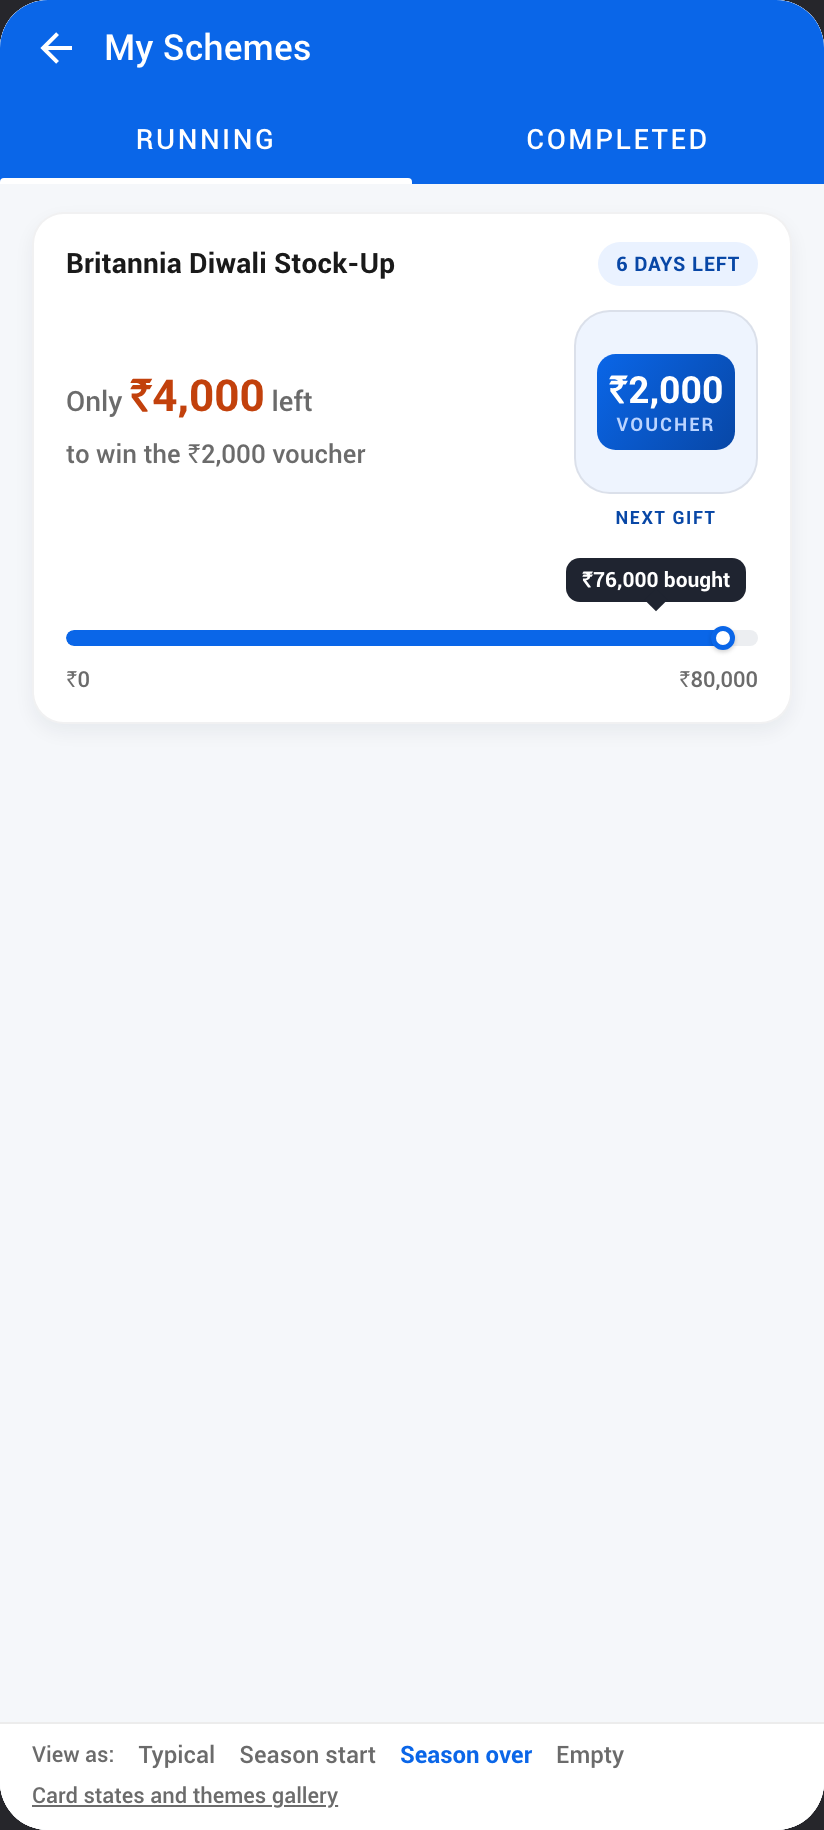
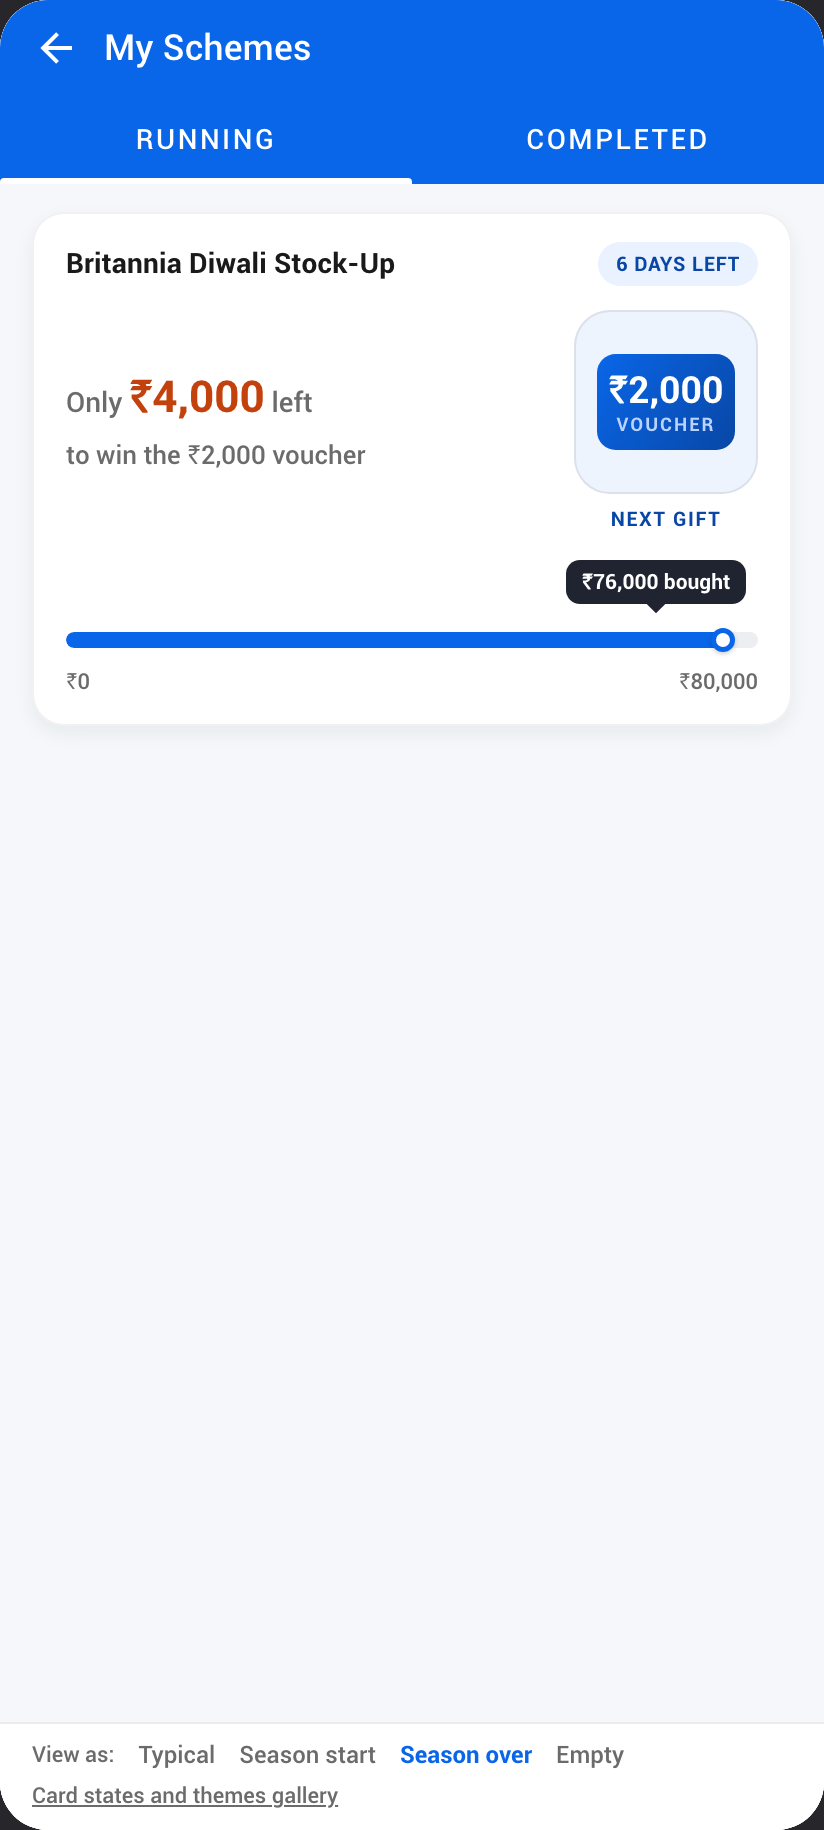
Forensic audit: measured fixes for axis, contrast, hit areas, rhythm, tokens
Measured with a DOM probe (bounding boxes, computed styles) and WCAG math,
then re-measured to zero:
- Title lockup off the page axis by 15px (motif+gap shifted the text): the
  motif now hangs outside the centered text; all five centered blocks read
  0.0px from one axis.
- Contrast (computed): default-theme h2 3.63:1 -> sub #E4EEFF; diwali deep
  accent 3.99:1 at 9px -> #9A5F0B at 10px (5.23:1); green 4.21:1 both ways
  -> #177E36 (5.15:1 text-on-white and white-on-fill).
- Back buttons measured 24x24 (hitSlop is unreliable on RN-web): padding
  10 / margin -10 gives a real 44x44 target on both screens.
- Stage closing rhythm 26/30/35 -> 26/30/31 (CTA marginTop 18 -> 14).
- Stepper 'now' halo was hardcoded Diwali cream; it now uses the theme tint
  (blue on default, marigold creams on festive).
- One scene speck sat under the diya and read as a stray mark; moved out of
  the header band.
Verified clean: track-to-label alignment 0.0px at both ends, knob-caret
concentric, chip heights uniform 22, no text overflow, no sub-9px type.

diff --git a/app/mega-diwali/index.js b/app/mega-diwali/index.js
@@ -57,7 +57,7 @@ const N = {
   line: '#ECECEC',
   paper: '#FFFFFF',
   bg: '#F7F7F7',
-  green: '#1E8E3E',
+  green: '#177E36',
 };
 const PHOTO_EDGE = 'rgba(0,0,0,0.08)';
 const TABULAR = { fontVariant: ['tabular-nums'] };
@@ -359,7 +359,13 @@ export default function SchemeDetail() {
         <View style={styles.stage}>
           <StageScene stage={st} festive={festive} focusY={missed ? 0.2 : 0.44} />
           <View style={styles.topBar}>
-            <Pressable onPress={() => router.back()} hitSlop={12} android_ripple={{ color: '#ffffff33', borderless: true }}>
+            {/* hitSlop is unreliable on RN-web; padding+negative margin gives a
+                real 44px target without moving the icon. */}
+            <Pressable
+              onPress={() => router.back()}
+              style={styles.backHit}
+              android_ripple={{ color: '#ffffff33', borderless: true }}
+            >
               <IconBack size={24} color="#fff" />
             </Pressable>
           </View>
@@ -367,8 +373,16 @@ export default function SchemeDetail() {
           {/* Long-press the title for the prototype's state/theme panel. */}
           <Pressable onLongPress={() => setDemoOpen((v) => !v)} delayLongPress={450}>
             <View style={styles.titleRow}>
-              {th.motif ? <GiftGlyph kind={th.motif} size={22} color={st.accent} strokeWidth={1.5} /> : null}
-              <Text style={[styles.h1, { color: st.ink }]} allowFontScaling={false}>{title}</Text>
+              {/* The motif hangs OUTSIDE the centered text, so the title shares
+                  one axis with every centered block below it. */}
+              <View>
+                {th.motif ? (
+                  <View style={styles.motifHang}>
+                    <GiftGlyph kind={th.motif} size={22} color={st.accent} strokeWidth={1.5} />
+                  </View>
+                ) : null}
+                <Text style={[styles.h1, { color: st.ink }]} allowFontScaling={false}>{title}</Text>
+              </View>
             </View>
             {h2}
           </Pressable>
@@ -553,7 +567,7 @@ export default function SchemeDetail() {
                         style={[
                           styles.stepDot,
                           stepStates[i] === 'done' && styles.stepDone,
-                          stepStates[i] === 'now' && [styles.stepNow, { borderColor: st.accentDeep }],
+                          stepStates[i] === 'now' && [styles.stepNow, { borderColor: st.accentDeep, backgroundColor: th.card.tint }],
                         ]}
                       >
                         <GiftGlyph
@@ -724,7 +738,9 @@ const styles = StyleSheet.create({
 
   stage: { paddingBottom: 28, overflow: 'hidden' },
   topBar: { flexDirection: 'row', alignItems: 'center', paddingHorizontal: 16, paddingTop: 14 },
-  titleRow: { flexDirection: 'row', alignItems: 'center', justifyContent: 'center', gap: 8, marginTop: 8 },
+  backHit: { padding: 10, margin: -10 },
+  titleRow: { flexDirection: 'row', justifyContent: 'center', marginTop: 8 },
+  motifHang: { position: 'absolute', right: '100%', marginRight: 8, top: 3 },
   h1: { fontFamily: F.bold, fontSize: 22, lineHeight: 27, letterSpacing: 0.2 },
   h2: { marginTop: 4, textAlign: 'center', fontFamily: F.regular, fontSize: 13, lineHeight: 17 },
 
@@ -810,7 +826,7 @@ const styles = StyleSheet.create({
   bigRest: { marginTop: 2, textAlign: 'center', fontFamily: F.medium, fontSize: 14, lineHeight: 19, paddingHorizontal: 24 },
 
   cta: {
-    marginTop: 18,
+    marginTop: 14,
     marginHorizontal: 32,
     height: 52,
     borderRadius: 26,
@@ -913,7 +929,7 @@ const styles = StyleSheet.create({
   step: { alignItems: 'center', width: 66 },
   stepDot: { width: 32, height: 32, borderRadius: 16, borderWidth: 1.5, borderColor: '#DDDFE3', backgroundColor: N.paper, alignItems: 'center', justifyContent: 'center' },
   stepDone: { backgroundColor: N.green, borderColor: N.green },
-  stepNow: { backgroundColor: '#FDF3E0' },
+  stepNow: {},
   stepTitle: { marginTop: 6, fontFamily: F.medium, fontSize: 11, lineHeight: 14, color: N.ink, textAlign: 'center' },
   stepDate: { marginTop: 1, fontFamily: F.regular, fontSize: 10, lineHeight: 13, color: N.sub },
   connector: { flex: 1, height: 2, borderRadius: 1, backgroundColor: '#E7E9EC', marginTop: 15 },

diff --git a/src/gifts/themes.js b/src/gifts/themes.js
@@ -31,7 +31,7 @@ export const THEMES = {
       glowAmbient: '#5AA0FF',
       speck: '#FFFFFF',
       ink: '#FFFFFF',
-      sub: '#BBD4FF',
+      sub: '#E4EEFF',
       accent: '#FFFFFF',
       accentInk: '#0A66E8',
       accentDeep: '#0847A6',
@@ -68,7 +68,7 @@ export const THEMES = {
       sub: '#B9ACDF',
       accent: '#F2B84B',
       accentInk: '#160E33',
-      accentDeep: '#B4700F',
+      accentDeep: '#9A5F0B',
       good: '#6FDB9B',
       urgent: '#FF8A5B',
       track: 'rgba(255,255,255,0.16)',
@@ -80,7 +80,7 @@ export const THEMES = {
       sub: '#B9ACDF',
       accent: '#F2B84B',
       accentInk: '#160E33',
-      accentDeep: '#B4700F',
+      accentDeep: '#9A5F0B',
       good: '#6FDB9B',
       urgent: '#FF8A5B',
       track: 'rgba(255,255,255,0.16)',

diff --git a/app/solv-schemes/index.js b/app/solv-schemes/index.js
@@ -180,7 +180,11 @@ export default function SolvSchemes() {
   return (
     <SafeAreaView style={styles.screen} edges={['top']}>
       <View style={styles.toolbar}>
-        <Pressable onPress={() => router.back()} android_ripple={{ color: '#ffffff33', borderless: true }}>
+        <Pressable
+          onPress={() => router.back()}
+          style={{ padding: 10, margin: -10 }}
+          android_ripple={{ color: '#ffffff33', borderless: true }}
+        >
           <IconBack size={24} color="#fff" />
         </Pressable>
         <Text style={styles.toolbarTitle} allowFontScaling={false}>My Schemes</Text>

diff --git a/src/gifts/Scene.js b/src/gifts/Scene.js
@@ -13,7 +13,7 @@ import Svg, { Defs, LinearGradient, RadialGradient, Stop, Rect, Circle } from 'r
 // Fixed speck field (viewBox 412 x 480): position, radius, opacity. Kept away
 // from the centre so the pedestal and the copy stay clean.
 const SPECKS = [
-  [38, 84, 1.6, 0.5], [86, 190, 1.1, 0.32], [58, 320, 1.4, 0.4],
+  [36, 142, 1.6, 0.5], [86, 190, 1.1, 0.32], [58, 320, 1.4, 0.4],
   [128, 52, 1.2, 0.35], [170, 132, 1.0, 0.26], [352, 74, 1.6, 0.5],
   [312, 168, 1.1, 0.3], [376, 250, 1.4, 0.42], [330, 340, 1.2, 0.32],
   [250, 44, 1.0, 0.3], [390, 140, 1.0, 0.28], [24, 236, 1.0, 0.3],

diff --git a/src/gifts/solv.js b/src/gifts/solv.js
@@ -34,7 +34,7 @@ export const SOLV = {
   line: '#ECECEC',
   paper: '#FFFFFF',
   bg: '#F5F7FA',
-  green: '#1E8E3E',
+  green: '#177E36',
   greenBg: '#E9F5EC',
   red: '#C2410C',
 };
@@ -401,7 +401,7 @@ const styles = StyleSheet.create({
     borderColor: PHOTO_EDGE,
     overflow: 'hidden',
   },
-  showcaseCaption: { marginTop: 6, fontFamily: F.bold, fontSize: 9, lineHeight: 12, letterSpacing: 0.8 },
+  showcaseCaption: { marginTop: 6, fontFamily: F.bold, fontSize: 10, lineHeight: 13, letterSpacing: 0.8 },
   showcaseFrame: {
     width: 74,
     height: 74,
